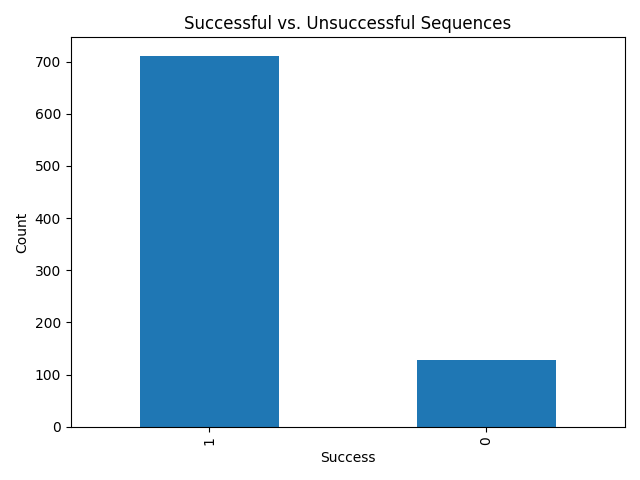
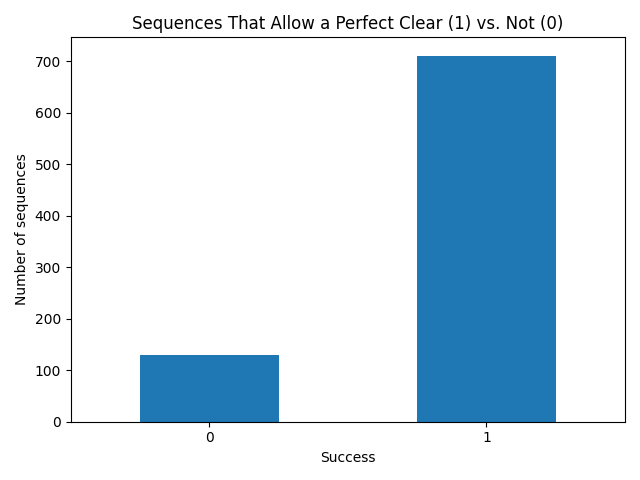
Add cross-validation depth comparison with pair feature

diff --git a/code/tune_depth.py b/code/tune_depth.py
@@ -1,0 +1,12 @@
+import pandas as pd
+from sklearn.tree import DecisionTreeClassifier
+from sklearn.model_selection import cross_val_score
+
+df = pd.read_csv("data/tetris_perfect_clear_sequences.csv")
+X = pd.get_dummies(df[["piece_1", "piece_2", "piece_3", "piece_4"]])
+y = df["success"]
+
+# Compare tree depths using 5-fold cross-validation (no test-set peeking)
+for depth in [3, 5, 8, 12, None]:
+    scores = cross_val_score(DecisionTreeClassifier(max_depth=depth, random_state=42), X, y, cv=5)
+    print(depth, round(scores.mean(), 4))
